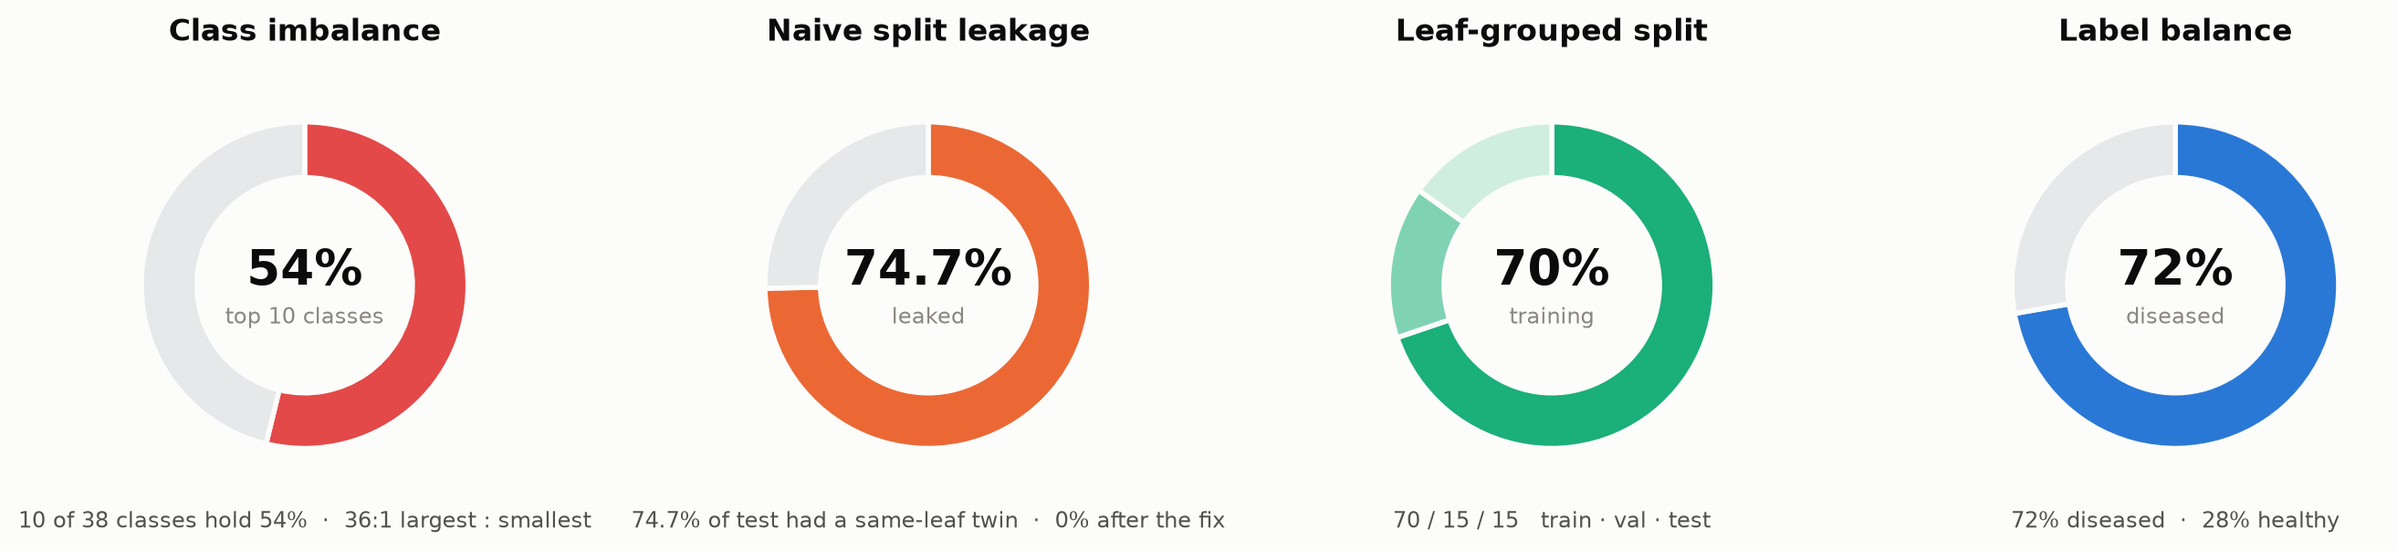
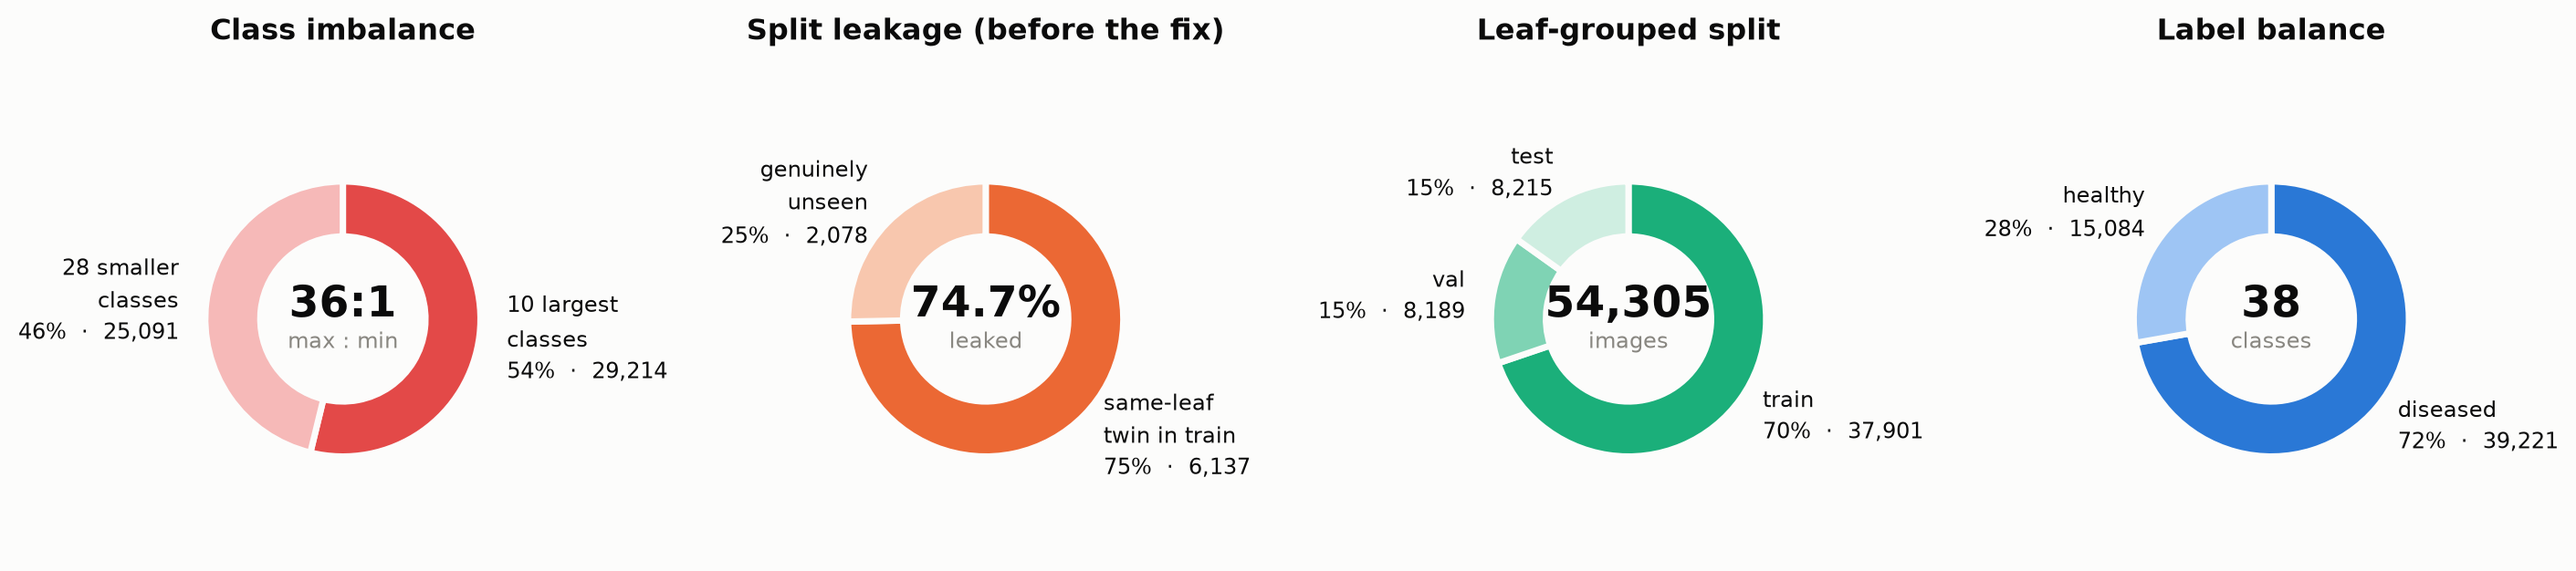
Donut panel: label every segment so the rings carry the reading
The rings were only decoration: each showed one coloured arc against an anonymous grey remainder, so the reader was really just reading the number in the middle and the caption underneath. Every segment is now named and carries both its share and its absolute count, so the ring is doing the work: 10 largest classes 54% / 29,214 against 28 smaller classes 46% / 25,091; the leakage panel splits into same-leaf twins 75% / 6,137 and genuinely unseen 25% / 2,078; the split shows all three of train, val and test rather than hiding val and test behind a single 70% arc; and label balance names both sides. Centre labels were shortened to fit inside the hole after the first render pushed them over the ring.

diff --git a/tools/make_figures.py b/tools/make_figures.py
@@ -396,29 +396,46 @@ def fig_dataset():
     diseased = 100 * (total - healthy) / total
     tr, va, te = (100 * len(s) / total for s in splits_from_config(cfg, base))
 
-    REST = "#e6e8ea"
+    n_top10 = int(np.sort(counts)[::-1][:10].sum())
+    tr_n, va_n, te_n = (len(s) for s in splits_from_config(cfg, base))
+    # every segment is named and counted, so the ring itself carries the reading
     panels = [
-        ([top10, 100 - top10], [RED, REST], f"{top10:.0f}%", "top 10 classes",
-         "Class imbalance", f"10 of 38 classes hold {top10:.0f}%  ·  36:1 largest : smallest"),
-        ([74.7, 25.3], [ORANGE, REST], "74.7%", "leaked",
-         "Naive split leakage", "74.7% of test had a same-leaf twin  ·  0% after the fix"),
-        ([tr, va, te], [AQUA, "#7fd3b4", "#cfeee1"], f"{tr:.0f}%", "training",
-         "Leaf-grouped split", f"{tr:.0f} / {va:.0f} / {te:.0f}   train · val · test"),
-        ([diseased, 100 - diseased], [BLUE, REST], f"{diseased:.0f}%", "diseased",
-         "Label balance", f"{diseased:.0f}% diseased  ·  {100 - diseased:.0f}% healthy"),
+        ("Class imbalance",
+         [("10 largest\nclasses", top10, n_top10, RED),
+          ("28 smaller\nclasses", 100 - top10, total - n_top10, "#f6b9b8")],
+         "36:1", "max : min"),
+        ("Split leakage (before the fix)",
+         [("same-leaf\ntwin in train", 74.7, round(8215 * 0.747), ORANGE),
+          ("genuinely\nunseen", 25.3, 8215 - round(8215 * 0.747), "#f8c7ae")],
+         "74.7%", "leaked"),
+        ("Leaf-grouped split",
+         [("train", tr, tr_n, AQUA), ("val", va, va_n, "#7fd3b4"),
+          ("test", te, te_n, "#cfeee1")],
+         "54,305", "images"),
+        ("Label balance",
+         [("diseased", diseased, total - healthy, BLUE),
+          ("healthy", 100 - diseased, healthy, "#9ec5f4")],
+         "38", "classes"),
     ]
 
-    fig, axes = plt.subplots(1, 4, figsize=(13.2, 4.4))
-    for ax, (vals, cols, big, small, title, caption) in zip(axes, panels):
-        ax.pie(vals, colors=cols, startangle=90, counterclock=False,
-               wedgeprops=dict(width=0.34, edgecolor=SURFACE, linewidth=2))
-        ax.text(0, 0.08, big, ha="center", va="center", fontsize=19,
+    fig, axes = plt.subplots(1, 4, figsize=(14.4, 5.0))
+    for ax, (title, segs, big, small) in zip(axes, panels):
+        wedges, _ = ax.pie([s[1] for s in segs], colors=[s[3] for s in segs],
+                           startangle=90, counterclock=False,
+                           wedgeprops=dict(width=0.40, edgecolor=SURFACE, linewidth=2.5))
+        ax.text(0, 0.10, big, ha="center", va="center", fontsize=17,
                 fontweight="bold", color=INK)
-        ax.text(0, -0.20, small, ha="center", va="center", fontsize=8.5, color=MUTED)
-        ax.set_title(title, fontsize=12, fontweight="bold", color=INK, pad=16)
-        ax.text(0, -1.45, caption, ha="center", va="center", fontsize=8.6, color=INK2)
+        ax.text(0, -0.17, small, ha="center", va="center", fontsize=8.5, color=MUTED)
+        for wedge, (name, pctv, n, _c) in zip(wedges, segs):
+            ang = np.deg2rad((wedge.theta1 + wedge.theta2) / 2)
+            x, y = np.cos(ang), np.sin(ang)
+            ax.text(1.20 * x, 1.20 * y, f"{name}\n{pctv:.0f}%  ·  {n:,}",
+                    ha="center" if abs(x) < 0.35 else ("left" if x > 0 else "right"),
+                    va="center", fontsize=8.6, color=INK, linespacing=1.5)
+        ax.set_title(title, fontsize=11.5, fontweight="bold", color=INK, pad=18)
+        ax.set_xlim(-1.85, 1.85); ax.set_ylim(-1.7, 1.7)
         ax.set_aspect("equal")
-    fig.tight_layout(w_pad=1.8)
+    fig.tight_layout(w_pad=0.6)
     save(fig, "dataset_composition.png")
 
 
